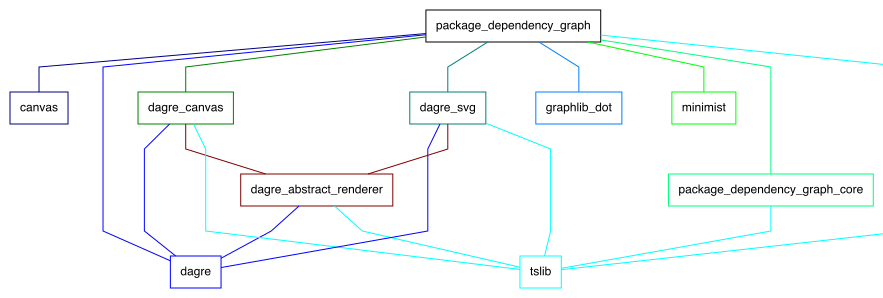
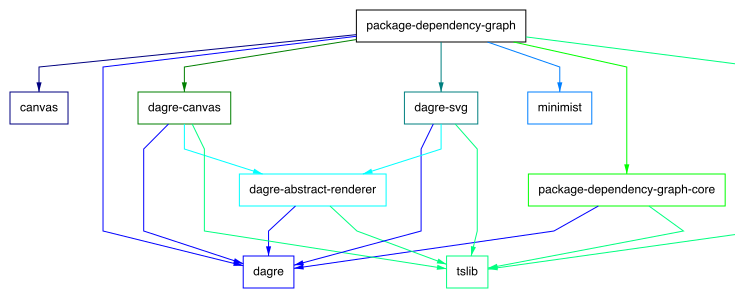
feat: add arrow

diff --git a/packages/dagre-abstract-renderer/src/renderer.ts b/packages/dagre-abstract-renderer/src/renderer.ts
@@ -30,6 +30,27 @@ export function renderDagre<T>(graph: dagre.graphlib.Graph, target: RenderTarget
   for (const edge of graph.edges()) {
     const edgeValue: GraphEdgeValue = graph.edge(edge)
     children.push(target.polyline(edgeValue.points.map((p) => ({ x: p.x + margin, y: p.y + margin })), edgeValue.color!))
+    const point1 = edgeValue.points[edgeValue.points.length - 2]
+    const point2 = edgeValue.points[edgeValue.points.length - 1]
+    const alpha = Math.atan((point2.x - point1.x) / (point1.y - point2.y))
+    const deltaAlpha = Math.PI / 12
+    const arrowSize = 10
+    const alpha1 = alpha - deltaAlpha
+    const alpha2 = alpha + deltaAlpha
+    children.push(target.polygon([
+      {
+        x: point2.x + margin,
+        y: point2.y + margin
+      },
+      {
+        x: point2.x + arrowSize * Math.sin(alpha1) + margin,
+        y: point2.y - arrowSize * Math.cos(alpha1) + margin
+      },
+      {
+        x: point2.x + arrowSize * Math.sin(alpha2) + margin,
+        y: point2.y - arrowSize * Math.cos(alpha2) + margin
+      }
+    ], edgeValue.color!))
   }
   return target.getResult(children, canvasWidth, canvasHeight)
 }

diff --git a/packages/dagre-canvas/src/canvas.ts b/packages/dagre-canvas/src/canvas.ts
@@ -63,4 +63,17 @@ export class CanvasTarget implements RenderTarget<void> {
     }
     this.ctx.stroke()
   }
+  polygon(points: { x: number; y: number; }[], color: string) {
+    this.ctx.fillStyle = color
+    this.ctx.beginPath()
+    for (let i = 0; i < points.length; i++) {
+      const point = points[i]
+      if (i === 0) {
+        this.ctx.moveTo(point.x, point.y)
+      } else {
+        this.ctx.lineTo(point.x, point.y)
+      }
+    }
+    this.ctx.fill()
+  }
 }

diff --git a/packages/dagre-abstract-renderer/src/render-target.ts b/packages/dagre-abstract-renderer/src/render-target.ts
@@ -9,4 +9,5 @@ export interface RenderTarget<T> {
   strokeRect(x: number, y: number, width: number, height: number, color: string): T
   fillText(text: string, x: number, y: number, color: string, fontSize: number, fontFamily: string): T
   polyline(points: { x: number; y: number; }[], color: string): T
+  polygon(points: { x: number; y: number; }[], color: string): T
 }

diff --git a/packages/dagre-svg/src/svg.ts b/packages/dagre-svg/src/svg.ts
@@ -67,4 +67,12 @@ ${children.join('')}
     fill="none"
   />`
   }
+  polygon(points: { x: number; y: number; }[], color: string) {
+    const pointsText = points.map((p) => `${p.x},${p.y}`).join(' ')
+    return `<polygon
+    points="${pointsText}"
+    stroke="none"
+    fill="${color}"
+  />`
+  }
 }
